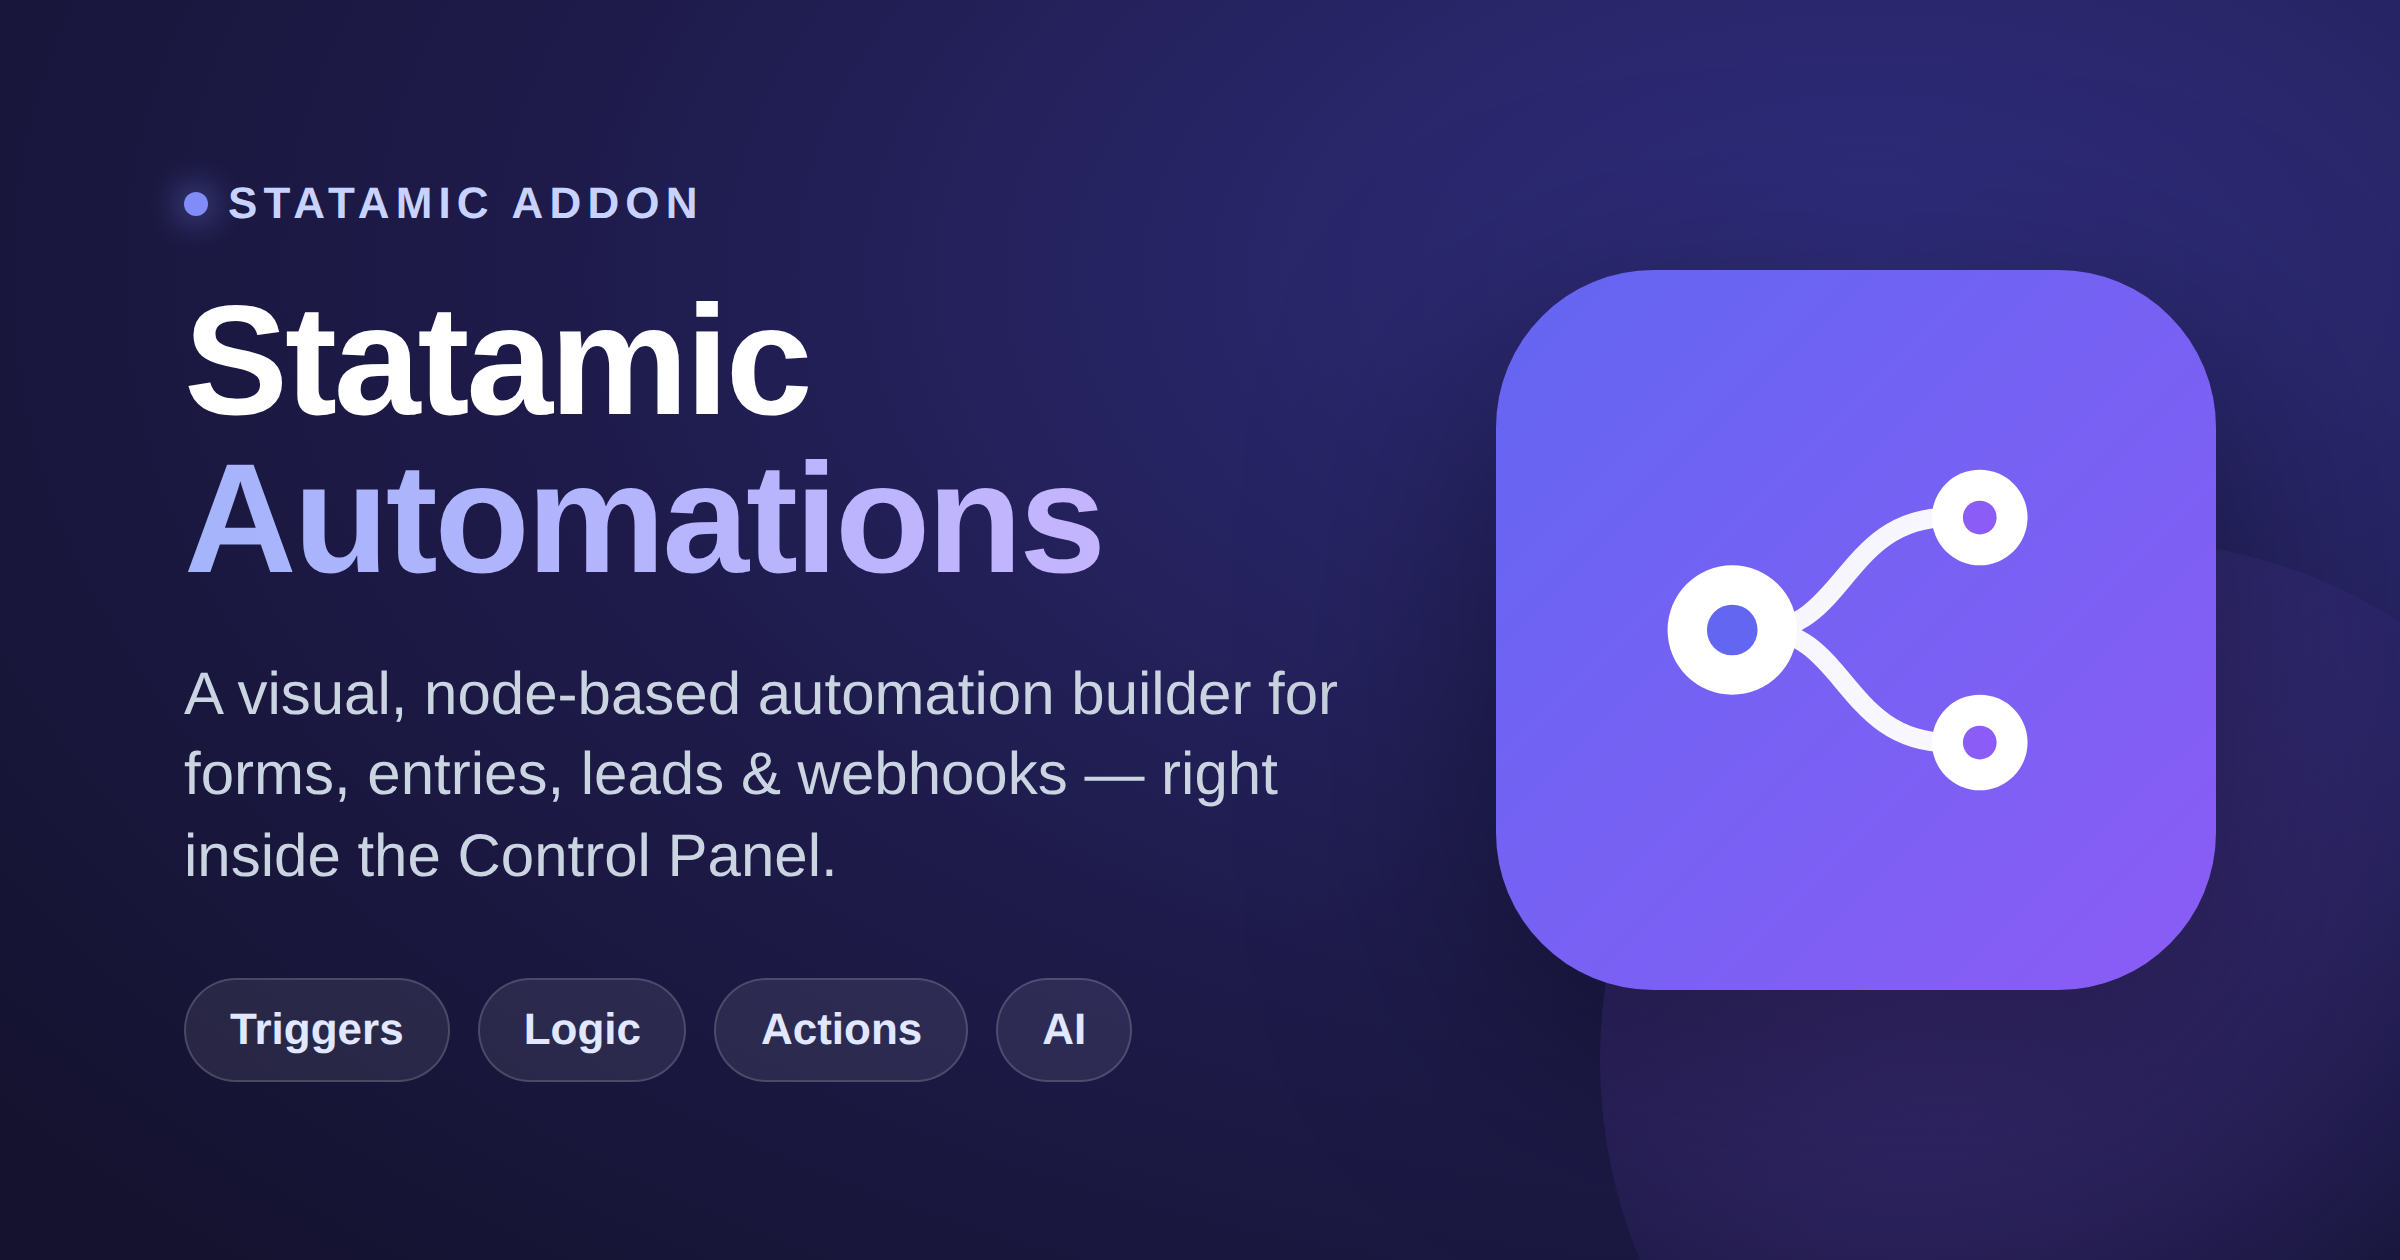
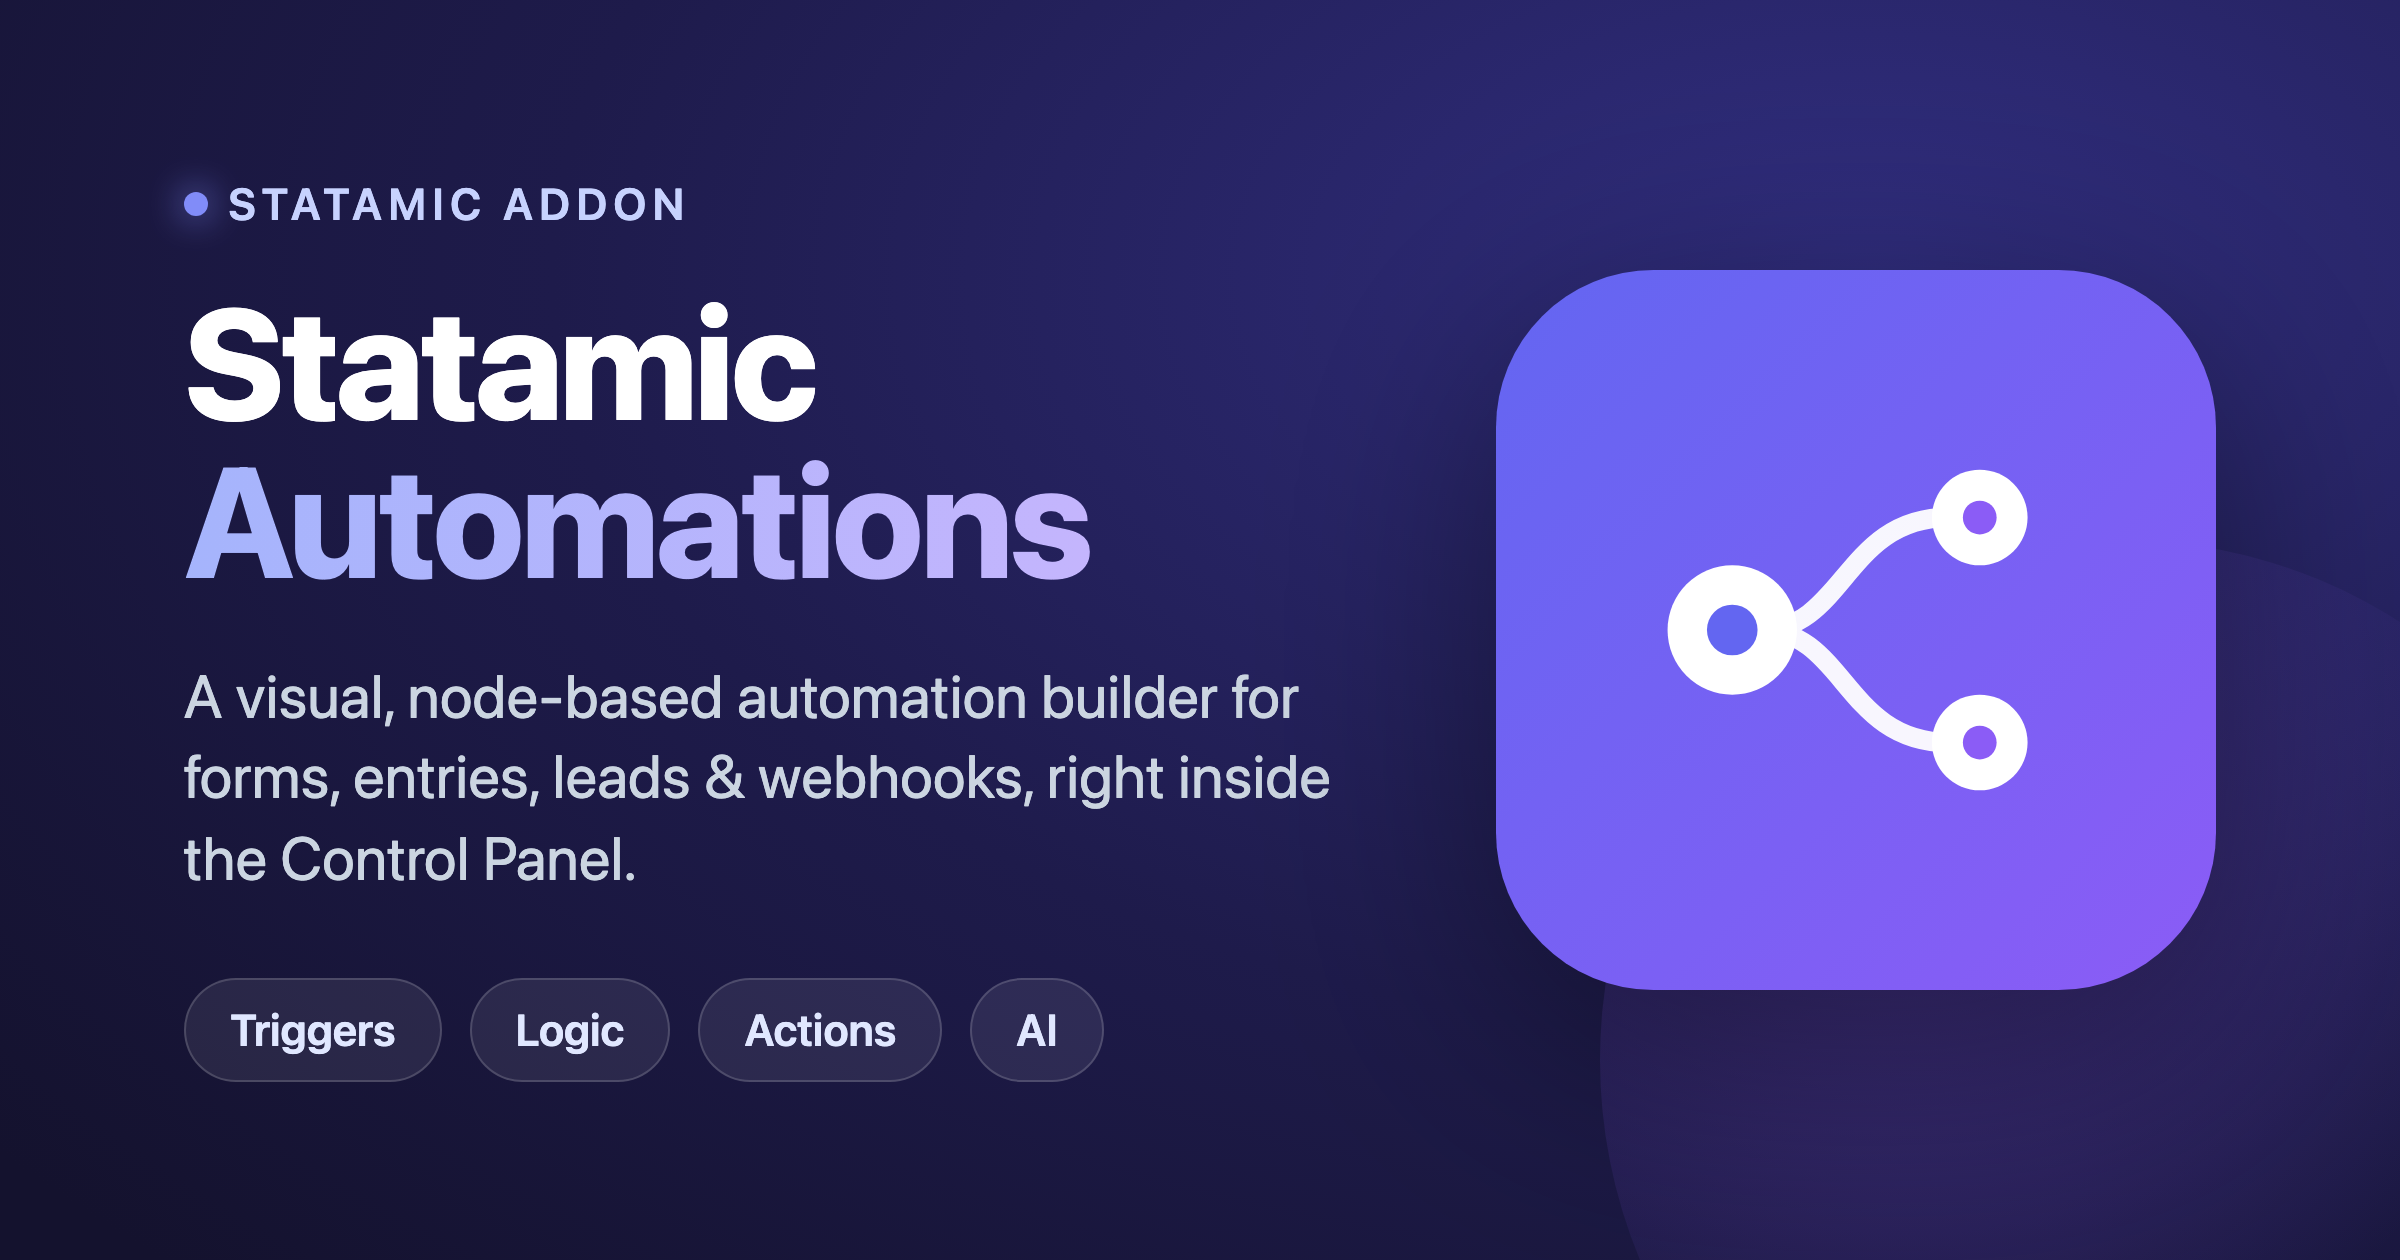
chore(art): Gedankenstrich aus Cover-Untertitel entfernen
Adrians Copy-Regel erlaubt in Marketingtexten keine Gedankenstriche.
Der Halbgeviertstrich im Untertitel ist durch ein Komma aufgeloest,
nicht durch einen Bindestrich ersetzt.

Cover-PNG aus cover.html neu gerendert, Masse unveraendert bei 2400x1260.

diff --git a/art/cover.html b/art/cover.html
@@ -35,7 +35,7 @@
     <div class="copy">
       <span class="eyebrow"><span class="dot"></span>Statamic Addon</span>
       <h1>Statamic<br><span class="accent">Automations</span></h1>
-      <p class="sub">A visual, node-based automation builder for forms, entries, leads &amp; webhooks — right inside the Control Panel.</p>
+      <p class="sub">A visual, node-based automation builder for forms, entries, leads &amp; webhooks, right inside the Control Panel.</p>
       <div class="badges">
         <span class="badge">Triggers</span>
         <span class="badge">Logic</span>
